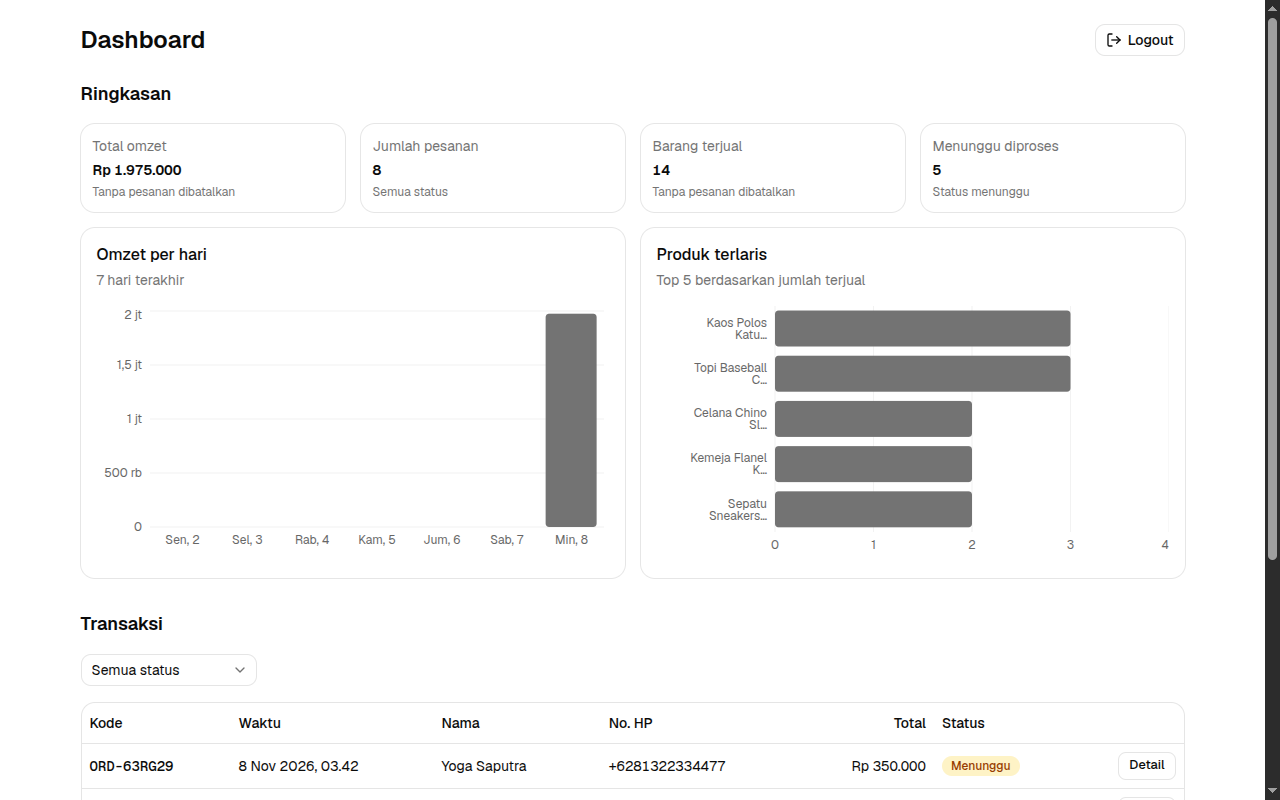
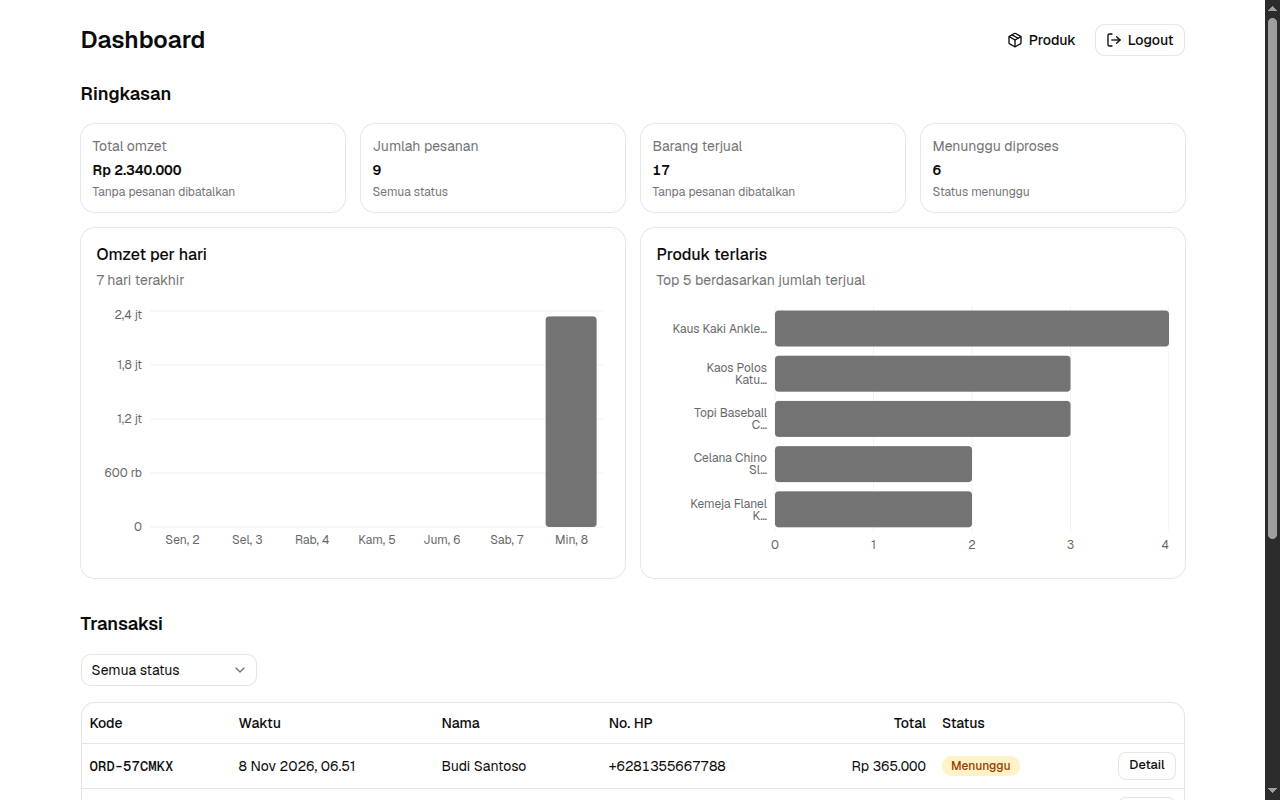
docs: rapikan dokumen submission & perbarui screenshot dashboard
- Flowchart §3 mengikuti urutan create_order (kunci produk, hitung total, lalu simpan)
- PROMPT_LOG: pola prompt per issue ditulis sekali, hasil #29-#42 diringkas
- PRD/Flowchart tanpa tautan issue internal, FR-09 diperjelas, judul ERD §5
- Screenshot dashboard & notifikasi dengan tombol Produk

diff --git a/docs/PROMPT_LOG.md b/docs/PROMPT_LOG.md
@@ -150,14 +150,22 @@ Hasil:
 - Kode aplikasi dipindah ke folder `src/` agar terpisah dari file konfigurasi di root. Tidak ada beda fungsi, hanya kerapian, dan biayanya murah karena dilakukan sebelum ada kode lain.
 - `proxy.ts` adalah nama baru `middleware.ts` di Next.js 16. Untuk Supabase, file ini memperbarui token login di cookie dan menghadang halaman `/admin`. Karena login admin baru dikerjakan di issue #7, pembuatannya ditunda ke sana.
 
+## Pola Prompt per Issue (Tahap 8–21)
+
+Mulai issue #2, setiap issue dibuka dengan prompt yang sama; hanya nomor issue (`n`) yang berbeda. AI harus menunjukkan rencana dulu dan baru boleh mengubah kode setelah rencana disetujui:
+
+> saya ingin melanjutkan issue #n cek pada @docs/ISSUES.md dan pada github, sebelum melakukan eksekusi, saya ingin melihat tahapan yang akan kamu lakukan terlebih dahulu.
+> tampilkan outputnya secara ringkas dan rapi serta terstruktur.
+>
+> note: jangan lakukan perubahan/generate kode atau apapun, sebelum saya setujui rencana implementasi issue n
+
+Di bawah ini prompt tersebut ditulis singkat sebagai **Pola per issue (n = …)**.
+
 ## Tahap 8 — Skema Database (Issue #2)
 
 **19. Meminta rencana sebelum eksekusi**
 
-> saya ingin melanjutkan issue #2 cek pada @docs/ISSUES.md dan pada github, sebelum melakukan eksekusi, saya ingin melihat tahapan yang akan kamu lakukan terlebih dahulu.
-> tampilkan outputnya secara ringkas dan rapi serta terstruktur.
->
-> note: jangan lakukan perubahan/generate kode atau apapun, sebelum saya setujui rencana implementasi issue 2
+Prompt: **Pola per issue (n = 2)**
 
 Hasil: AI membaca issue #2 di GitHub, ERD, dan PRD, lalu menyusun rencana per langkah: isi migration (tabel, constraint, index, trigger, `is_admin()`, RLS, realtime), seed produk, cara menjalankan, dan tabel uji untuk setiap acceptance criteria. Tidak ada file yang dibuat sebelum rencana disetujui.
 
@@ -178,10 +186,7 @@ Hasil: `user_roles` adalah tabel (akun + role-nya), sedangkan `app_role` adalah 
 
 **22. Meminta rencana sebelum eksekusi**
 
-> saya ingin melanjutkan issue #3 cek pada @docs/ISSUES.md dan pada github, sebelum melakukan eksekusi, saya ingin melihat tahapan yang akan kamu lakukan terlebih dahulu.
-> tampilkan outputnya secara ringkas dan rapi serta terstruktur.
->
-> note: jangan lakukan perubahan/generate kode atau apapun, sebelum saya setujui rencana implementasi issue 3
+Prompt: **Pola per issue (n = 3)**
 
 Hasil: AI membaca issue #3, migration #2, ERD, PRD, dan Flowchart, lalu menyusun rencana: satu migration baru berisi `normalize_phone`, `create_order`, `get_order_status`, dan `update_order_status`, aturan hak akses per role, cara uji untuk setiap acceptance criteria, dan bagian dokumen yang perlu diperbarui. Tidak ada file yang dibuat sebelum rencana disetujui.
 
@@ -195,10 +200,7 @@ Hasil: Saat AI pertama kali mencoba menjalankan migration ke Supabase, pemeriksa
 
 **24. Meminta rencana sebelum eksekusi**
 
-> saya ingin melanjutkan issue #4 cek pada @docs/ISSUES.md dan pada github, sebelum melakukan eksekusi, saya ingin melihat tahapan yang akan kamu lakukan terlebih dahulu.
-> tampilkan outputnya secara ringkas dan rapi serta terstruktur.
->
-> note: jangan lakukan perubahan/generate kode atau apapun, sebelum saya setujui rencana implementasi issue 4
+Prompt: **Pola per issue (n = 4)**
 
 Hasil: AI membaca issue #4, skema & seed produk, PRD FR-01, Flowchart §2, dan dokumentasi caching Next.js 16 (karena `cacheComponents` aktif). Rencananya: helper `formatRupiah`, komponen gambar dengan fallback, dan grid produk di dalam `<Suspense>` tanpa cache agar stok selalu segar, plus filter `is_active` eksplisit karena admin yang login bisa membaca produk nonaktif. Setelah disetujui, saat dicek di lebar 375px teks tombol ternyata meluap, sehingga tombol dibuat boleh dua baris. Build lolos, tampilan dicek di 375px dan desktop, lalu dicek ulang di URL produksi.
 
@@ -206,10 +208,7 @@ Hasil: AI membaca issue #4, skema & seed produk, PRD FR-01, Flowchart §2, dan d
 
 **25. Meminta rencana sebelum eksekusi**
 
-> saya ingin melanjutkan issue #5 cek pada @docs/ISSUES.md dan pada github, sebelum melakukan eksekusi, saya ingin melihat tahapan yang akan kamu lakukan terlebih dahulu.
-> tampilkan outputnya secara ringkas dan rapi serta terstruktur.
->
-> note: jangan lakukan perubahan/generate kode atau apapun, sebelum saya setujui rencana implementasi issue 5
+Prompt: **Pola per issue (n = 5)**
 
 Hasil: AI membaca issue #5, halaman katalog dari #4, komponen `Sheet` yang sudah ada, PRD FR-02/FR-03/US-02, dan Flowchart §2. Rencananya: keranjang disimpan di `localStorage` lewat `useSyncExternalStore` bawaan React (tanpa library tambahan), qty dibatasi stok, panel keranjang memakai `Sheet` dengan badge jumlah item di header, dan harga di keranjang hanya untuk tampilan karena total dihitung ulang server di #6. Setelah disetujui, saat dicek di lebar 375px panel ternyata hanya selebar 3/4 layar sehingga subtotal terpotong, lalu panel dibuat selebar layar di HP. Lint dan build lolos, semua acceptance criteria dicek di 375px dan desktop.
 
@@ -217,10 +216,7 @@ Hasil: AI membaca issue #5, halaman katalog dari #4, komponen `Sheet` yang sudah
 
 **26. Meminta rencana sebelum eksekusi**
 
-> saya ingin melanjutkan issue #6 cek pada @docs/ISSUES.md dan pada github, sebelum melakukan eksekusi, saya ingin melihat tahapan yang akan kamu lakukan terlebih dahulu.
-> tampilkan outputnya secara ringkas dan rapi serta terstruktur.
->
-> note: jangan lakukan perubahan/generate kode atau apapun, sebelum saya setujui rencana implementasi issue 6
+Prompt: **Pola per issue (n = 6)**
 
 Hasil: AI membaca issue #6, fungsi `create_order` dari #3, keranjang dari #5, PRD FR-04–FR-07, dan Flowchart §2. Karena `create_order` hanya mengembalikan kode dan total, AI menanyakan cara menampilkan ringkasan di halaman sukses; dipilih route `/checkout/success` dengan ringkasan disimpan di `sessionStorage`. Rencananya: form dengan validasi per field, hanya `product_id + qty` yang dikirim, tombol dikunci saat proses agar tidak ada pesanan ganda, dan error server (mis. stok tidak cukup) ditampilkan lalu kembali ke katalog. Setelah disetujui, saat diuji di lebar 375px tombol di halaman sukses ternyata gepeng dan tombol outline kehilangan garis tepi, lalu keduanya diperbaiki. Lint dan build lolos, semua acceptance criteria dicek di 375px dan desktop, termasuk klik ganda yang terbukti hanya membuat satu pesanan.
 
@@ -228,10 +224,7 @@ Hasil: AI membaca issue #6, fungsi `create_order` dari #3, keranjang dari #5, PR
 
 **27. Meminta rencana sebelum eksekusi**
 
-> saya ingin melanjutkan issue #7 cek pada @docs/ISSUES.md dan pada github, sebelum melakukan eksekusi, saya ingin melihat tahapan yang akan kamu lakukan terlebih dahulu.
-> tampilkan outputnya secara ringkas dan rapi serta terstruktur.
->
-> note: jangan lakukan perubahan/generate kode atau apapun, sebelum saya setujui rencana implementasi issue 7
+Prompt: **Pola per issue (n = 7)**
 
 Hasil: AI membaca issue #7, fungsi `is_admin()` dan RLS dari #2, client Supabase yang sudah ada, PRD FR-10/FR-17/US-06, Flowchart §5, dan dokumentasi Next.js 16 (di versi ini `middleware.ts` sudah diganti `proxy.ts`). Rencananya: `proxy.ts` menjaga `/admin/*` (belum login diarahkan ke login, bukan admin otomatis logout), Server Action untuk login dan logout, halaman login, dashboard sementara dengan tombol logout, dan langkah membuat akun admin lewat SQL dicatat di README. Setelah disetujui, form login dibungkus `<Suspense>` karena `cacheComponents` aktif. Build dan lint lolos. Redirect `/admin`, pesan password salah, dan tampilan 375px dicek di browser. AI tidak login memakai akun sungguhan karena password akan dikirim ke Supabase Auth yang di-hosting, jadi uji login dilakukan manual.
 
@@ -251,51 +244,53 @@ Hasil: AI mencocokkan hasil uji dengan acceptance criteria: AC1–AC3 lolos, dan
 
 **29. Meminta rencana sebelum eksekusi**
 
-> saya ingin melanjutkan issue #8 cek pada @docs/ISSUES.md dan pada github, sebelum melakukan eksekusi, saya ingin melihat tahapan yang akan kamu lakukan terlebih dahulu.
-> tampilkan outputnya secara ringkas dan rapi serta terstruktur.
->
-> note: jangan lakukan perubahan/generate kode atau apapun, sebelum saya setujui rencana implementasi issue 8
+Prompt: **Pola per issue (n = 8)**
 
-Hasil: AI membaca issue #8, fungsi `update_order_status` dari #3, RLS `orders`/`order_items` dari #2, PRD FR-13–FR-15/US-09/US-10/§6.4, dan Flowchart §7. Karena semua aturan status dan pengembalian stok sudah dijamin database, rencananya murni UI tanpa migration baru: query pesanan beserta rinciannya di Server Component, tabel memakai komponen shadcn yang sudah terpasang, filter status di klien, dialog detail berisi alamat dan rincian barang, serta tombol ubah status yang hanya muncul untuk transisi sah dengan konfirmasi sebelum membatalkan. Setelah disetujui, log dev server menunjukkan error `Date.now()` saat `/admin` dirender dengan sesi admin (Cache Components), lalu diperbaiki dengan `await connection()` sebelum query. Lint dan build lolos. Di browser, dua pesanan uji baru dipakai agar pesanan yang ada tidak berubah: satu dibawa sampai Selesai (tombol ubah status hilang), satu dibatalkan dan stok produknya terbukti kembali di database. Filter tiap status dan tampilan 375px serta desktop juga dicek.
+Hasil:
+- Rencananya murni UI tanpa migration baru, karena aturan status dan pengembalian stok sudah dijamin `update_order_status`: tabel shadcn, filter status di klien, dialog detail (alamat + rincian barang), dan tombol ubah status yang hanya muncul untuk transisi sah, dengan konfirmasi sebelum membatalkan.
+- Masalah: error `Date.now()` saat `/admin` dirender dengan sesi admin (Cache Components). Diperbaiki dengan `await connection()` sebelum query.
+- Uji di browser memakai dua pesanan uji baru: satu dibawa sampai Selesai (tombol ubah status hilang), satu dibatalkan dan stoknya terbukti kembali di database. Filter tiap status serta tampilan 375px dan desktop dicek. Lint dan build lolos.
 
 ## Tahap 15 — Ringkasan Statistik & Grafik Penjualan (Issue #9)
 
 **30. Meminta rencana sebelum eksekusi**
 
-> saya ingin melanjutkan issue #9 cek pada @docs/ISSUES.md dan pada github, sebelum melakukan eksekusi, saya ingin melihat tahapan yang akan kamu lakukan terlebih dahulu.
-> tampilkan outputnya secara ringkas dan rapi serta terstruktur.
->
-> note: jangan lakukan perubahan/generate kode atau apapun, sebelum saya setujui rencana implementasi issue 9
+Prompt: **Pola per issue (n = 9)**
 
-Hasil: AI membaca issue #9, migration #2/#3, halaman admin dari #8, PRD FR-11/FR-12/US-08, dan ERD §4–§5. Rencananya menyebut tiga keputusan yang perlu disetujui: "jumlah pesanan" menghitung semua status agar sama dengan jumlah baris di tabel transaksi (pesanan dibatalkan tetap tidak dihitung di omzet, barang terjual, dan grafik), hari dikelompokkan dalam zona Asia/Jakarta dengan hari tanpa penjualan tetap bernilai 0, dan grafik memakai shadcn Chart (menambah `recharts`). Setelah disetujui, AI mengerjakan dulu bagian yang tidak butuh database (komponen, halaman, ERD, lint, build), lalu meminta izin sebelum menjalankan migration.
+Hasil:
+- Tiga keputusan diajukan untuk disetujui: "jumlah pesanan" menghitung semua status agar sama dengan jumlah baris tabel transaksi (pesanan dibatalkan tetap tidak dihitung di omzet, barang terjual, dan grafik); hari dikelompokkan dalam zona Asia/Jakarta dengan hari kosong bernilai 0; grafik memakai shadcn Chart (menambah `recharts`).
+- Bagian yang tidak butuh database (komponen, halaman, ERD, lint, build) dikerjakan dulu, lalu AI meminta izin sebelum menjalankan migration.
 
 **31. Mengizinkan migration dijalankan**
 
 > Ya, jalankan
 
-Hasil: Migration dijalankan, lalu keempat acceptance criteria diuji dalam transaksi yang di-rollback: angka fungsi sama dengan hitungan langsung dari tabel, pesanan yang dibatalkan mengembalikan omzet ke nilai semula, data kosong menghasilkan angka 0 dan grafik 7 hari bernilai 0, serta anon (juga lewat REST API) dan user tanpa role admin ditolak. Karena login admin di browser berarti mengirim password ke Supabase Auth yang di-hosting, tampilan dicek lewat halaman pratinjau sementara berisi angka hasil uji di lebar 375px dan desktop, lalu halaman itu dihapus sebelum commit. Saat dicek, grafik sempat terlihat kosong; ternyata tangkapan layar diambil saat animasi batang belum selesai, bukan bug. Commit di-push, issue #9 tertutup otomatis, dan deploy Vercel berhasil.
+Hasil:
+- Migration dijalankan, lalu keempat acceptance criteria diuji dalam transaksi yang di-rollback: angka fungsi sama dengan hitungan langsung dari tabel, pembatalan mengembalikan omzet, data kosong menghasilkan 0, dan anon serta user tanpa role admin ditolak.
+- Karena AI tidak login dengan password sungguhan, tampilan dicek lewat halaman pratinjau sementara di 375px dan desktop. Halaman itu dihapus sebelum commit.
+- Grafik sempat terlihat kosong, ternyata karena tangkapan layar diambil sebelum animasi selesai, bukan bug. Commit di-push, issue #9 tertutup, dan deploy Vercel berhasil.
 
 ## Tahap 16 — Dashboard Real-time & Notifikasi Pesanan Baru (Issue #10)
 
 **32. Meminta rencana sebelum eksekusi**
 
-> saya ingin melanjutkan issue #10 cek pada @docs/ISSUES.md dan pada github, sebelum melakukan eksekusi, saya ingin melihat tahapan yang akan kamu lakukan terlebih dahulu.
-> tampilkan outputnya secara ringkas dan rapi serta terstruktur.
->
-> note: jangan lakukan perubahan/generate kode atau apapun, sebelum saya setujui rencana implementasi issue 10
+Prompt: **Pola per issue (n = 10)**
 
-Hasil: AI membaca issue #10, halaman admin dan tabel transaksi dari #8, ringkasan dari #9, migration #2, dan Flowchart §6. Karena tabel `orders` sudah masuk publication realtime dan data dashboard sudah diambil di Server Component, rencananya cukup satu komponen klien kecil: berlangganan perubahan `orders`, menampilkan toast saat ada pesanan baru, dan memanggil `router.refresh()` agar ringkasan, grafik, dan tabel diambil ulang. Saat rencana ditinjau, AI diminta menjelaskan dari mana ia tahu publication realtime sudah aktif. Jawabannya dari file migration, sehingga rencana ditambah langkah cek langsung di database live sebelum menulis kode. Saat diuji di browser, dashboard awalnya tidak berubah: langganan terdaftar sebelum token admin terpasang sehingga tercatat sebagai `anon` dan semua event disaring RLS. AI memperbaikinya dengan memasang token sesi sebelum subscribe. Setelah itu keempat acceptance criteria lolos dengan dua tab: pesanan baru muncul beserta toast, kartu dan grafik ikut berubah, pembatalan dari tab admin lain ikut tampil, dan jumlah langganan di database tetap satu per tab saat berpindah halaman. Dua pesanan uji dibatalkan agar stok kembali. Commit di-push dan issue #10 tertutup otomatis.
+Hasil:
+- Rencananya cukup satu komponen klien: berlangganan perubahan `orders`, menampilkan toast untuk pesanan baru, dan memanggil `router.refresh()` agar ringkasan, grafik, dan tabel diambil ulang.
+- Saat rencana ditinjau, AI diminta menjelaskan dari mana ia tahu publication realtime sudah aktif. Jawabannya dari file migration, sehingga ditambahkan langkah cek langsung di database live.
+- Masalah: dashboard awalnya tidak berubah karena langganan terdaftar sebagai `anon` sebelum token admin terpasang, sehingga semua event disaring RLS. Diperbaiki dengan memasang token sesi sebelum subscribe.
+- Uji dengan dua tab: pesanan baru muncul beserta toast, kartu dan grafik ikut berubah, pembatalan dari tab lain ikut tampil, dan jumlah langganan tetap satu per tab. Pesanan uji dibatalkan, lalu issue #10 tertutup.
 
 ## Tahap 17 — Lacak Pesanan Pelanggan (Issue #11)
 
 **33. Meminta rencana sebelum eksekusi**
 
-> saya ingin melanjutkan issue #11 cek pada @docs/ISSUES.md dan pada github, sebelum melakukan eksekusi, saya ingin melihat tahapan yang akan kamu lakukan terlebih dahulu.
-> tampilkan outputnya secara ringkas dan rapi serta terstruktur.
->
-> note: jangan lakukan perubahan/generate kode atau apapun, sebelum saya setujui rencana implementasi issue 11
+Prompt: **Pola per issue (n = 11)**
 
-Hasil: AI membaca issue #11, fungsi `get_order_status` dari #3, halaman sukses dari #6 (yang sudah menautkan ke `/track?code=`), PRD FR-08/FR-09/US-05, dan Flowchart §4. Karena fungsi database sudah siap, rencana awalnya cukup dua file baru tanpa migration: halaman `/track` dan komponen form kode + nomor HP dengan polling 10 detik. Saat rencana ditinjau, AI diminta menjelaskan kenapa pelacakan harus memakai kode dan nomor HP sekaligus. AI menjelaskan alasannya (privasi dan aturan di PRD FR-08) beserta untung-rugi tiap pilihan, lalu meminta keputusan.
+Hasil:
+- Rencana awal: halaman `/track` dan form kode + nomor HP dengan polling 10 detik, tanpa migration.
+- Saat rencana ditinjau, AI diminta menjelaskan kenapa pelacakan harus memakai kode dan nomor HP sekaligus. AI menjelaskan alasannya (privasi, PRD FR-08) beserta untung-rugi tiap pilihan, lalu meminta keputusan.
 
 **34. Memilih pencarian dengan kode atau nomor HP**
 
@@ -315,40 +310,44 @@ Hasil: AI menjelaskan bahwa polling secara teknis tidak wajib. Polling ada di re
 
 > Refresh manual saja
 
-Hasil: Rencana final disetujui. Migration `track_orders` (beserta index `customer_phone`) dijalankan, lalu diuji sebagai `anon`: kode menghasilkan 1 pesanan; nomor HP format `0…`, `+62 …-…`, dan `62…` menghasilkan daftar yang sama; input salah, kosong, atau null menghasilkan `[]`; `get_order_status` sudah terhapus. Pencarian dari `?code=` dijalankan di server sehingga muat ulang halaman selalu menampilkan status terbaru, sedangkan nomor HP tidak dimasukkan ke URL. Tabel rincian barang di dialog admin diekstrak menjadi komponen bersama agar dipakai juga oleh halaman lacak. Saat diuji di browser ditemukan dua masalah: error `Date.now()` saat prerender (diperbaiki dengan `await connection()` seperti di `/admin`) dan fokus keyboard hilang karena input di-disable saat mencari (sekarang hanya tombol yang di-disable). Satu pesanan uji diubah ke Diproses lalu Dibatalkan; keduanya terlihat setelah halaman dimuat ulang, dan stok kembali seperti semula. PRD FR-08/FR-09/US-05, ERD §4–§5, Flowchart §4/§7, dan isi issue #11 diperbarui. Commit di-push, issue #11 tertutup otomatis, dan deploy Vercel berhasil.
+Hasil:
+- Migration `track_orders` (beserta index `customer_phone`) dijalankan dan diuji sebagai `anon`: kode menghasilkan 1 pesanan; nomor HP format `0…`, `+62 …-…`, dan `62…` menghasilkan daftar yang sama; input salah atau kosong menghasilkan `[]`; `get_order_status` sudah terhapus.
+- Pencarian dari `?code=` dijalankan di server sehingga muat ulang selalu menampilkan status terbaru, sedangkan nomor HP tidak dimasukkan ke URL. Tabel rincian barang dijadikan komponen bersama untuk admin dan halaman lacak.
+- Masalah: error `Date.now()` saat prerender (diperbaiki dengan `await connection()`) dan fokus keyboard hilang karena input di-disable saat mencari (sekarang hanya tombol yang di-disable).
+- PRD, ERD, Flowchart, dan issue #11 diperbarui. Issue #11 tertutup dan deploy Vercel berhasil.
 
 ## Tahap 18 — Tampilan Responsif & State Loading/Kosong/Error (Issue #12)
 
 **37. Meminta rencana sebelum eksekusi**
 
-> saya ingin melanjutkan issue #12 cek pada @docs/ISSUES.md dan pada github, sebelum melakukan eksekusi, saya ingin melihat tahapan yang akan kamu lakukan terlebih dahulu.
-> tampilkan outputnya secara ringkas dan rapi serta terstruktur.
->
-> note: jangan lakukan perubahan/generate kode atau apapun, sebelum saya setujui rencana implementasi issue 12
+Prompt: **Pola per issue (n = 12)**
 
-Hasil: AI membaca issue #12, PRD NFR-01, semua halaman, dan komponen dari #4–#11, lalu membandingkan ruang lingkup dengan kondisi saat ini. Ternyata state loading (skeleton), state kosong, pesan gagal memuat, serta format Rupiah dan tanggal `id-ID` sudah ada. Yang kurang hanya halaman 404 dan error boundary. Rencana disetujui: dibuat `not-found.tsx` dan `error.tsx` (di versi Next ini prop-nya `retry`, bukan `reset`). Setelah itu semua halaman diaudit di 375px dan desktop, termasuk keranjang, dialog rincian pesanan, dan dashboard admin. Tidak ada scroll horizontal; tabel transaksi di-scroll di dalam kotaknya sendiri. Saat audit ditemukan error `Date.now()` saat prerender di katalog, yang diperbaiki dengan `await connection()` seperti di `/track` dan `/admin`. Error boundary diuji dengan rute sementara yang melempar error, lalu rute itu dihapus. Saat jaringan dimatikan di local, katalog menampilkan "Gagal memuat produk", bukan halaman putih. Link Produk di header admin ditunda ke issue #15. Build lolos, commit di-push, dan issue #12 tertutup otomatis.
+Hasil:
+- Hasil pemeriksaan: state loading, kosong, gagal memuat, serta format Rupiah dan tanggal sudah ada. Yang kurang hanya halaman 404 dan error boundary, lalu dibuat `not-found.tsx` dan `error.tsx` (di versi Next ini prop-nya `retry`, bukan `reset`).
+- Semua halaman diaudit di 375px dan desktop: tidak ada scroll horizontal, dan tabel di-scroll di dalam kotaknya sendiri. Error `Date.now()` di katalog diperbaiki dengan `await connection()`.
+- Error boundary diuji dengan rute sementara yang kemudian dihapus. Saat jaringan dimatikan, katalog menampilkan "Gagal memuat produk". Link Produk di header admin ditunda ke #15. Issue #12 tertutup.
 
 ## Tahap 19 — Verifikasi Akhir di URL Produksi (Issue #13)
 
 **38. Meminta rencana sebelum eksekusi**
 
-> saya ingin melanjutkan issue #13 cek pada @docs/ISSUES.md dan pada github, sebelum melakukan eksekusi, saya ingin melihat tahapan yang akan kamu lakukan terlebih dahulu.
-> tampilkan outputnya secara ringkas dan rapi serta terstruktur.
->
-> note: jangan lakukan perubahan/generate kode atau apapun, sebelum saya setujui rencana implementasi issue 13
+Prompt: **Pola per issue (n = 13)**
 
-Hasil: AI membaca issue #13, PRD §9, dan acceptance criteria #3, lalu meminta dua keputusan: data uji di database produksi ditandai `UJI-13`, dibatalkan, lalu dihapus; admin login sendiri di browser pane karena AI tidak mengetik password di situs produksi. Setelah rencana disetujui, semua kriteria PRD §9 lolos di produksi. Checkout 2 produk tanpa login selesai sekitar 36 detik. Pesanan baru muncul di dashboard yang sudah terbuka tanpa refresh. Ringkasan dan grafik sama dengan query SQL. `/admin` tanpa sesi diarahkan ke `/admin/login`. Harga palsu dari klien diabaikan. Semua halaman bisa diakses di URL Vercel. Uji kritis #3 dijalankan dengan `psql` di dalam transaksi yang di-rollback: stok kurang, stok habis, dan produk nonaktif ditolak; transisi status tidak sah ditolak; pembatalan mengembalikan stok; non-admin dan anon tidak bisa mengubah status. Uji stok bersamaan memakai dua request paralel ke REST API produksi untuk stok terakhir: satu berhasil, satu ditolak, dan stok tidak minus. Kriteria "kode benar + HP salah" diganti uji `track_orders`, karena sejak #11 pelacakan memakai kode atau HP: format `08…`, `62…`, dan `+62…` memberi hasil yang sama, sedangkan kode atau HP salah memberi `[]`. Tidak ada error di console; yang muncul hanya warning font preload bawaan Next.js. Di 375px tidak ada scroll horizontal. Tidak ditemukan bug baru. Kedua pesanan uji dibatalkan lewat dashboard dan fungsi admin, lalu dihapus atas persetujuan user, dan stok kembali sama seperti awal.
+Hasil:
+- Dua keputusan diminta: data uji di produksi ditandai `UJI-13`, dibatalkan, lalu dihapus; admin login sendiri karena AI tidak mengetik password di situs produksi.
+- Semua kriteria PRD §9 lolos di produksi: checkout 2 produk tanpa login sekitar 36 detik, pesanan baru muncul tanpa refresh, ringkasan sama dengan query SQL, `/admin` tanpa sesi diarahkan ke login, dan harga palsu dari klien diabaikan.
+- Uji kritis dengan `psql` (transaksi di-rollback): stok kurang, stok habis, produk nonaktif, dan transisi status tidak sah ditolak; pembatalan mengembalikan stok; non-admin dan anon tidak bisa mengubah status. Dua request paralel untuk stok terakhir: satu berhasil, satu ditolak, dan stok tidak minus.
+- Tidak ada bug baru. Pesanan uji dibatalkan lalu dihapus atas persetujuan user, dan stok kembali seperti awal.
 
 ## Tahap 20 — Dokumentasi Submission (Issue #14)
 
 **39. Meminta rencana sebelum eksekusi**
 
-> saya ingin melanjutkan issue #14 cek pada @docs/ISSUES.md dan pada github, sebelum melakukan eksekusi, saya ingin melihat tahapan yang akan kamu lakukan terlebih dahulu.
-> tampilkan outputnya secara ringkas dan rapi serta terstruktur.
->
-> note: jangan lakukan perubahan/generate kode atau apapun, sebelum saya setujui rencana implementasi issue 14
+Prompt: **Pola per issue (n = 14)**
 
-Hasil: AI membaca issue #14, README, dan PRD/ERD/Flowchart, lalu menemukan tiga hal: README masih template `create-next-app`, ketiga dokumen masih berstatus draft, dan fitur Kelola Produk (#15) sudah tertulis di dokumen padahal belum dibuat. Database produksi juga masih berisi 15 pesanan uji. Rencana 8 tahap disusun dengan keputusan: #15 ditandai "belum diimplementasikan" di PRD, ERD, dan Flowchart, bukan dikerjakan dulu.
+Hasil:
+- Temuan: README masih template `create-next-app`, PRD/ERD/Flowchart masih draft, Kelola Produk (#15) sudah tertulis padahal belum dibuat, dan database produksi masih berisi 15 pesanan uji.
+- Rencana 8 tahap disusun, dengan keputusan #15 ditandai "belum diimplementasikan" di dokumen, bukan dikerjakan dulu.
 
 **40. Memilih cara screenshot dan mereset data**
 
@@ -356,21 +355,29 @@ Hasil: AI membaca issue #14, README, dan PRD/ERD/Flowchart, lalu menemukan tiga 
 >
 > misal sekarang di hapus dulu semua data transaksinya gimana? disetting ke migrasi seperti diawal, sebelum ada co co?
 
-Hasil: AI menjelaskan bahwa screenshot dari browser pane Claude hanya masuk ke percakapan dan tidak bisa disimpan sebagai file, sehingga dipilih Chrome yang dikendalikan lewat DevTools Protocol (script Node kecil di luar repo, tanpa dependency baru). Setelah dikonfirmasi, 15 pesanan uji dihapus dan stok dikembalikan ke nilai `seed.sql` dalam satu transaksi. Pesanan contoh dengan data wajar dibuat lewat `create_order`, dan statusnya diubah lewat `update_order_status` sebagai admin, sehingga aturan transisi status tetap diperiksa database. Satu pesanan dibuat lewat checkout sungguhan untuk screenshot halaman sukses. Admin login sendiri di jendela Chrome karena AI tidak mengetik password di situs produksi. Saat mengambil screenshot, klik otomatis sempat mengenai tombol Batalkan, tetapi dialog konfirmasi "Batalkan pesanan? Stok akan dikembalikan." mencegah pembatalan, dan status pesanan dicek ulang di database. 13 screenshot (desktop dan 375px) disimpan di `docs/screenshots/`.
+Hasil:
+- Screenshot diambil lewat Chrome yang dikendalikan DevTools Protocol (script Node kecil di luar repo), karena screenshot browser pane Claude tidak bisa disimpan sebagai file.
+- 15 pesanan uji dihapus dan stok dikembalikan ke nilai `seed.sql` dalam satu transaksi. Pesanan contoh dibuat lewat `create_order` dan statusnya diubah lewat `update_order_status`, sehingga aturan database tetap berlaku.
+- Admin login sendiri. Klik otomatis sempat mengenai tombol Batalkan, tetapi dialog konfirmasi mencegah pembatalan, dan status dicek ulang di database.
+- 13 screenshot (desktop dan 375px) disimpan di `docs/screenshots/`.
 
 **41. Meninjau gambar produk**
 
 > kondisi gambar produk saat ini masih belum sesuai, menurutmu gimana? apakah perlu saya sesuaikan?
 
-Hasil: AI setuju gambar perlu diganti, karena `picsum.photos` memberi foto acak yang tidak sesuai nama produk dan akan terlihat di semua screenshot. AI mencari kandidat di Unsplash (hanya foto gratis, tanpa logo merek mencolok) dan menampilkannya untuk disetujui. Celana Chino disebut sebagai pilihan paling lemah karena berupa foto model. Setelah disetujui, link diganti di `seed.sql` dan di database produksi. Kode tidak perlu diubah karena `ProductImage` memakai `<img>` biasa. Setelah itu README ditulis ulang (menjalankan dari nol, arsitektur, akun admin, deploy), `USER_GUIDE.md` dibuat untuk pelanggan dan admin, dan PRD/ERD/Flowchart/ISSUES difinalkan. Flowchart §1 diperbaiki karena masih menulis "cek status berkala", padahal sejak #11 pelanggan cukup mencari ulang atau memuat ulang halaman. Klaim di ERD bahwa pendaftaran publik dimatikan dicek ke endpoint settings Supabase Auth. Semua tautan dicek (link relatif ada file-nya, link eksternal 200), 10 diagram Mermaid berhasil di-render, dan `npm run build` lolos.
+Hasil:
+- Foto acak dari `picsum.photos` diganti foto Unsplash yang sesuai nama produk (gratis, tanpa logo merek mencolok). Kandidat ditunjukkan dulu untuk disetujui, lalu link diganti di `seed.sql` dan di database produksi.
+- README ditulis ulang, `USER_GUIDE.md` dibuat, dan PRD/ERD/Flowchart/ISSUES difinalkan. Flowchart §1 yang masih menulis "cek status berkala" diperbaiki.
+- Pengecekan: klaim pendaftaran publik dimatikan dicek ke Supabase Auth, semua tautan valid, 10 diagram Mermaid berhasil di-render, dan `npm run build` lolos.
 
 ## Tahap 21 — Kelola Produk (Issue #15)
 
 **42. Meminta rencana sebelum eksekusi**
 
-> saya ingin melanjutkan issue #15 cek pada @docs/ISSUES.md dan pada github, sebelum melakukan eksekusi, saya ingin melihat tahapan yang akan kamu lakukan terlebih dahulu.
-> tampilkan outputnya secara ringkas dan rapi serta terstruktur.
->
-> note: jangan lakukan perubahan/generate kode atau apapun, sebelum saya setujui rencana implementasi issue 15
+Prompt: **Pola per issue (n = 15)**
 
-Hasil: AI membaca issue #15, skema, dan RLS, lalu menemukan bahwa database sudah siap: check `price >= 0` dan `stock >= 0`, aturan RLS admin tambah/ubah produk, `create_order` yang menolak produk nonaktif, dan harga yang disalin ke `order_items`. Karena itu tidak perlu migration baru. Rencana 6 tahap disetujui. Dibuat halaman `/admin/products` dan komponen `products-table.tsx` dengan pola yang sama seperti tabel transaksi (client Supabase di browser, dialog, toast, `router.refresh()`), serta link **Produk** di header dashboard (ditunda sejak #12). Admin login sendiri di browser pane. Hasil uji: produk baru langsung tampil di katalog; harga negatif ditolak oleh form; produk yang dinonaktifkan hilang dari katalog, dan checkout dengan produk itu di keranjang ditolak database tanpa membuat pesanan. Saat uji ditemukan tombol **Ubah** pada baris nonaktif ikut berwarna abu-abu sehingga terlihat mati, lalu diperbaiki agar hanya data produk yang diredupkan. Tampilan dicek di 375px (tabel di-scroll di dalam kotaknya, tanpa scroll horizontal halaman) dan desktop. Produk uji diubah menjadi "Jaket Denim Klasik" dan disisakan nonaktif sebagai contoh. Tanda "belum diimplementasikan" dihapus dari PRD, ERD, Flowchart, README, dan User Guide; User Guide mendapat bagian B6 beserta screenshot. Lint dan `npm run build` lolos.
+Hasil:
+- Database ternyata sudah siap (check harga dan stok ≥ 0, RLS admin, `create_order` menolak produk nonaktif, harga disalin ke `order_items`), sehingga tidak perlu migration baru.
+- Dibuat halaman `/admin/products` dan `products-table.tsx` dengan pola yang sama seperti tabel transaksi, serta link **Produk** di header dashboard.
+- Uji: produk baru langsung tampil di katalog, harga negatif ditolak form, dan produk nonaktif hilang dari katalog dengan checkout-nya ditolak database. Tombol **Ubah** pada baris nonaktif yang terlihat mati diperbaiki.
+- Dicek di 375px dan desktop. Produk uji disisakan nonaktif sebagai contoh ("Jaket Denim Klasik"). Tanda "belum diimplementasikan" dihapus dari dokumen, User Guide mendapat bagian B6, serta lint dan build lolos.

diff --git a/docs/PRD.md b/docs/PRD.md
@@ -73,7 +73,7 @@ Usaha kecil sering menerima pesanan lewat chat, sehingga pencatatan manual, rawa
 | FR-06 | Saat checkout, server memeriksa stok, menyimpan pesanan beserta rinciannya, dan mengurangi stok dalam satu proses utuh (jika salah satu gagal, semuanya dibatalkan). |
 | FR-07 | Setelah berhasil, pelanggan melihat halaman sukses berisi kode pesanan, ringkasan, dan tautan untuk melacak pesanan. |
 | FR-08 | Halaman lacak pesanan: pelanggan cukup memasukkan kode pesanan **atau** nomor HP. Hasilnya berupa daftar pesanan (kode → satu pesanan, nomor HP → semua pesanan dengan nomor itu, maksimal 20 terbaru) berisi kode, waktu, status, dan total; pesanan diklik untuk melihat rincian barang. Nama, alamat, dan nomor HP tidak ditampilkan. Nomor HP dicocokkan setelah dinormalisasi (lihat FR-04), jadi beda format penulisan tidak membuat pesanan gagal ditemukan. |
-| FR-09 | Status di halaman lacak pesanan tidak diperbarui otomatis: pelanggan melihat status terbaru dengan mencari lagi atau memuat ulang halaman. |
+| FR-09 | Pelanggan melihat status terbaru dengan mencari lagi atau memuat ulang halaman lacak; status tidak diperbarui otomatis. |
 
 ### 6.2 Sisi Admin
 | ID | Kebutuhan |
@@ -88,7 +88,7 @@ Usaha kecil sering menerima pesanan lewat chat, sehingga pencatatan manual, rawa
 | FR-17 | Admin dapat logout. |
 
 ### 6.3 Kelola Produk (Admin)
-Halaman `/admin/products` ([issue #15](https://github.com/arikmhm/awm-fullstack/issues/15)). FR-21 dan FR-22 dijamin database: `create_order` menolak produk nonaktif, dan harga disalin ke `order_items` saat checkout.
+Halaman `/admin/products`. FR-21 dan FR-22 dijamin database: `create_order` menolak produk nonaktif, dan harga disalin ke `order_items` saat checkout.
 
 | ID | Kebutuhan |
 |----|-----------|

diff --git a/docs/FLOWCHART.md b/docs/FLOWCHART.md
@@ -73,20 +73,20 @@ flowchart TD
     B -- Tidak --> X[Batalkan transaksi, kirim pesan kesalahan]
     B -- Ya --> C{Daftar produk kosong?}
     C -- Ya --> X
-    C -- Tidak --> D[Ambil produk berikutnya dan kunci barisnya]
+    C -- Tidak --> LK[Kunci baris semua produk yang dipesan, urut ID]
+    LK --> D[Ambil produk berikutnya]
     D --> E{Produk ada dan aktif?}
     E -- Tidak --> X
     E -- Ya --> F{Jumlah > 0 dan stok cukup?}
     F -- Tidak --> X
-    F -- Ya --> G[Ambil harga dari tabel products]
+    F -- Ya --> G[Tambahkan harga dari tabel products × jumlah ke total]
     G --> H{Masih ada produk lain?}
     H -- Ya --> D
     H -- Tidak --> I[Buat kode pesanan unik]
-    I --> J[Simpan ke orders dengan status pending]
+    I --> J[Simpan ke orders: status pending + total]
     J --> K[Simpan rincian ke order_items: salinan nama + harga]
     K --> L[Kurangi stok setiap produk]
-    L --> M[Hitung total dari seluruh subtotal]
-    M --> N[Simpan transaksi]
+    L --> N[Simpan transaksi]
     N --> O([Kirim kode pesanan ke pelanggan])
 ```
 
@@ -192,7 +192,7 @@ flowchart TD
 
 ## 8. Alur Kelola Produk
 
-Halaman `/admin/products` ([issue #15](https://github.com/arikmhm/awm-fullstack/issues/15)). Tombol Tambah dan Ubah membuka form di dialog; tombol Aktifkan/Nonaktifkan langsung menyimpan.
+Halaman `/admin/products`. Tombol Tambah dan Ubah membuka form di dialog; tombol Aktifkan/Nonaktifkan langsung menyimpan.
 
 ```mermaid
 flowchart TD

diff --git a/README.md b/README.md
@@ -48,7 +48,7 @@ Browser ──► Next.js (Vercel) ──► Supabase
              └◄── Realtime ◄──────┘  (perubahan tabel orders → dashboard)
 ```
 
-- **Tanpa API server sendiri.** Aplikasi memanggil fungsi database lewat `supabase-js`. Logika penting (hitung harga, cek stok, transisi status) berjalan di database dalam satu transaksi.
+- **Tanpa REST API sendiri.** Aplikasi memanggil fungsi database lewat `supabase-js`; satu-satunya kode server tambahan adalah Server Action untuk login dan logout admin. Logika penting (hitung harga, cek stok, transisi status) berjalan di database dalam satu transaksi.
 - **Proteksi admin dua lapis:** `src/proxy.ts` mengarahkan pengunjung tanpa role admin ke halaman login, dan RLS memeriksa `is_admin()` sebelum data dikirim.
 - **Real-time:** tabel `orders` masuk publication `supabase_realtime`. Dashboard berlangganan perubahan tabel itu lalu mengambil ulang data.
 

diff --git a/docs/ERD.md b/docs/ERD.md
@@ -158,7 +158,7 @@ Saat ini hanya ada satu role. Role baru (misalnya `staff` yang hanya boleh mengu
 | order_items | `order_id` | Mengambil rincian sebuah pesanan |
 | order_items | `product_id` | Grafik produk terlaris |
 
-## 5. Hak Akses Data (Row Level Security)
+## 5. Keamanan & Fungsi Database
 
 | Tabel | Pelanggan (tanpa login) | Admin (login, role admin) |
 |-------|-------------------------|---------------|
